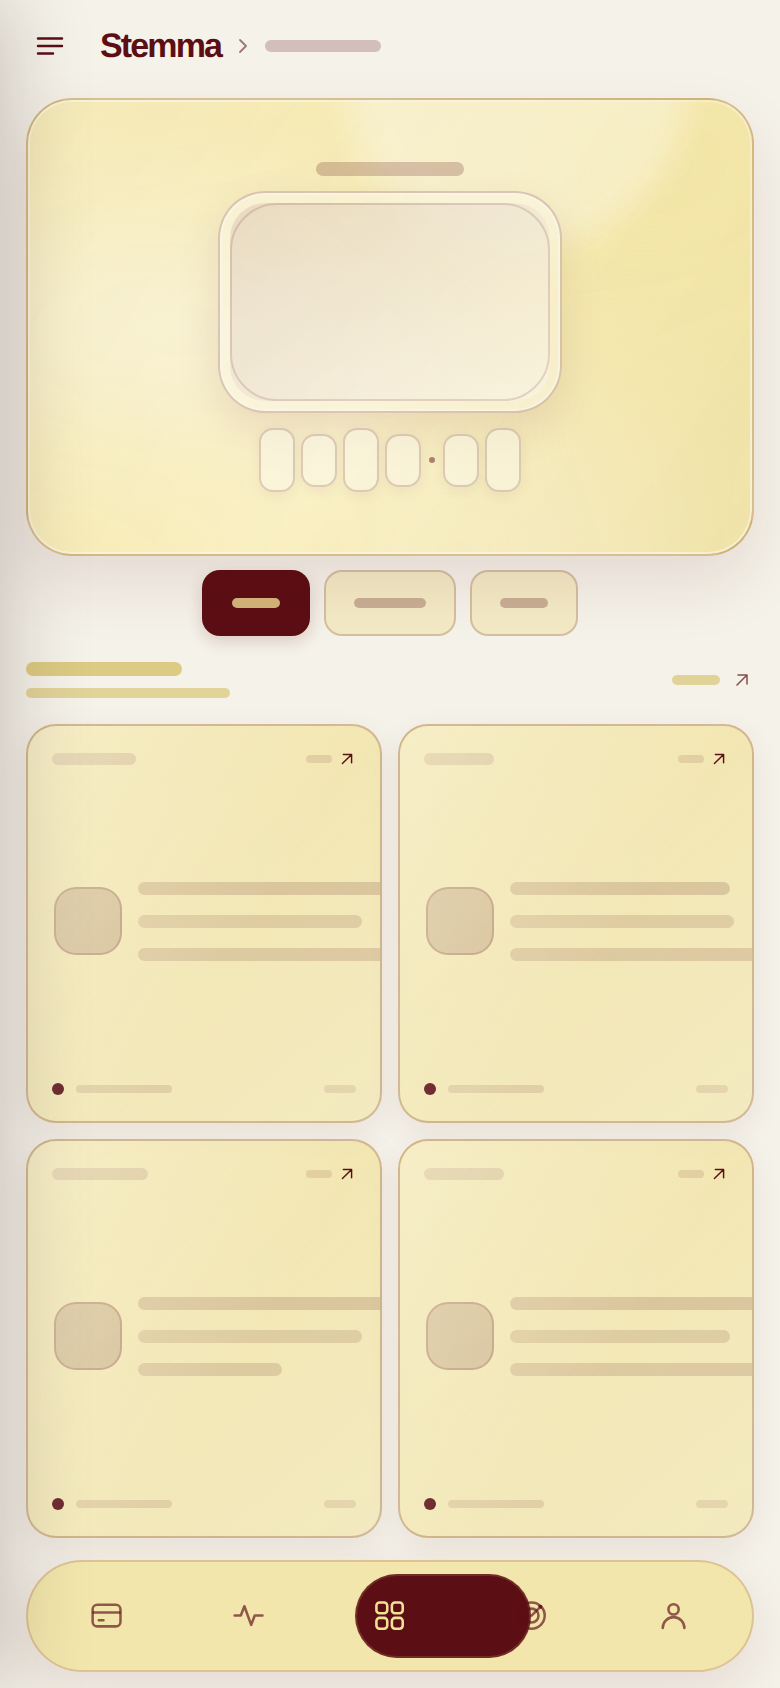
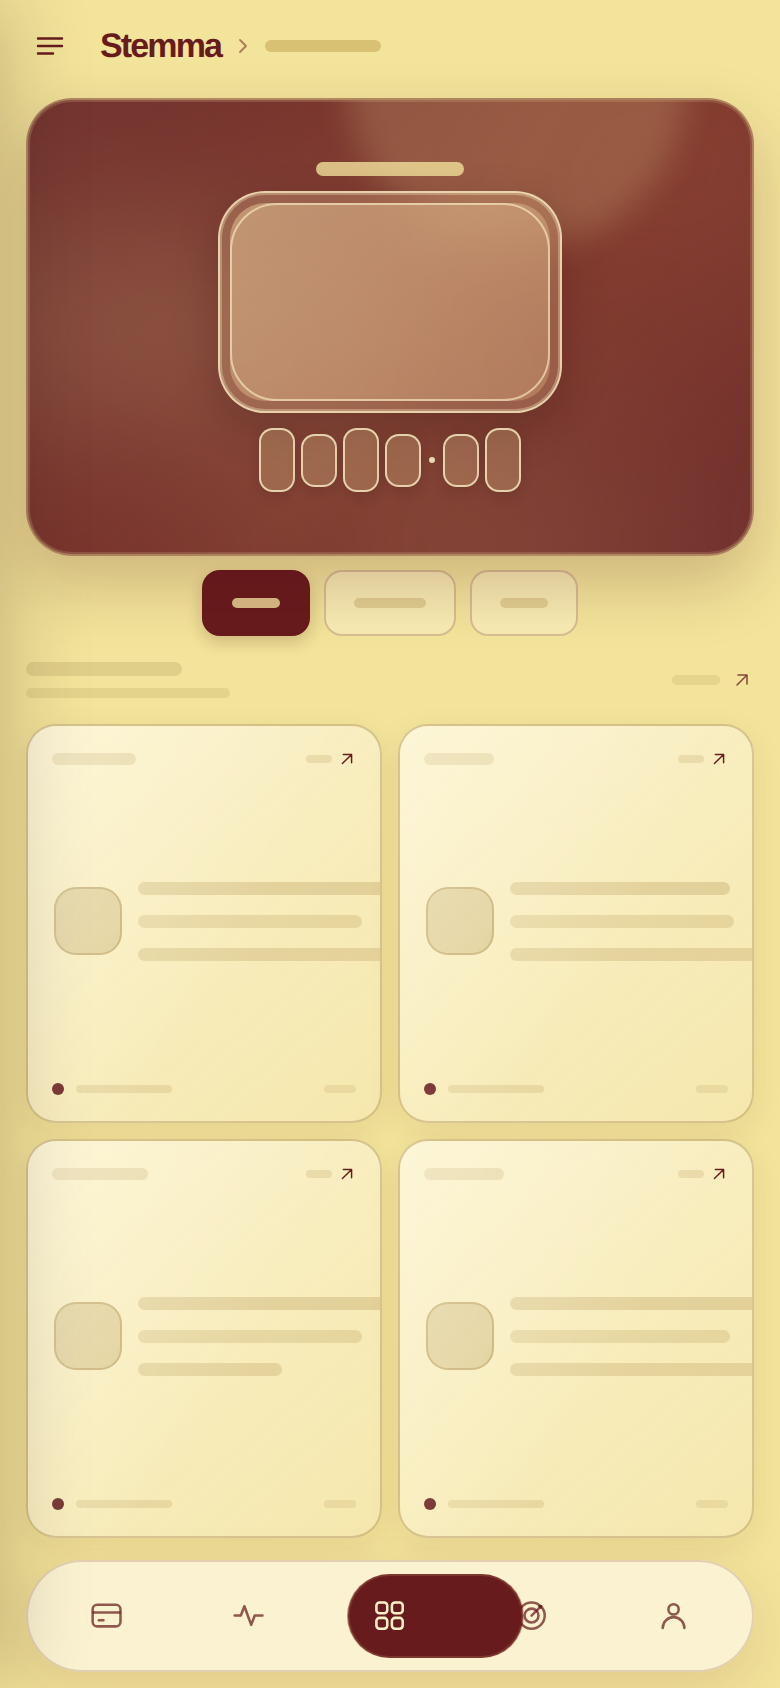
Polish Stemma mobile sidebar layout

diff --git a/styles.css b/styles.css
@@ -133,10 +133,10 @@ button { color: inherit; font: inherit; }
 .app-main.route-from-left { animation: route-from-left .28s ease both; }
 .drawer-backdrop { position: fixed; inset: 0; z-index: 29; background: rgba(47,55,49,.16); backdrop-filter: blur(3px); }
 .drawer-backdrop[hidden] { display: none; }
-.navigation-drawer { position: fixed; z-index: 30; inset: 0 auto 0 0; width: min(280px, calc(100% - 44px)); padding: 18px 16px; display: flex; flex-direction: column; background: rgba(246,247,243,.97); border-right: 1px solid rgba(255,255,255,.9); box-shadow: 15px 0 42px rgba(40,48,42,.1); transform: translateX(-105%); transition: transform .26s cubic-bezier(.2,.7,.2,1); }
+.navigation-drawer { position: fixed; z-index: 30; inset: 0 auto 0 0; width: min(280px, calc(100% - 44px)); padding: 16px 16px; display: flex; flex-direction: column; background: rgba(246,247,243,.97); border-right: 1px solid rgba(255,255,255,.9); box-shadow: 15px 0 42px rgba(40,48,42,.1); transform: translateX(-105%); transition: transform .26s cubic-bezier(.2,.7,.2,1); }
 .navigation-drawer.open { transform: translateX(0); }
-.drawer-top { display: flex; align-items: center; justify-content: space-between; padding: 1px 1px 27px; }
-.drawer-photo-skeleton { width: calc(100% + 4px); height: clamp(144px, 18vh, 168px); aspect-ratio: auto; flex: 0 0 auto; margin: 0 -2px 24px; border: 1px solid transparent; border-radius: 18px; }
+.drawer-top { display: flex; align-items: center; justify-content: space-between; padding: 1px 1px 9px; }
+.drawer-photo-skeleton { width: calc(100% + 4px); height: clamp(128px, 16vh, 148px); aspect-ratio: auto; flex: 0 0 auto; margin: 0 -2px 8px; border: 1px solid transparent; border-radius: 18px; }
 .drawer-mark-skeleton { width: 74px; height: 7px; border-radius: 99px; background: #daddd7; }
 .drawer-links { display: grid; gap: 7px; }
 .drawer-link { min-height: 44px; display: flex; align-items: center; gap: 13px; padding: 7px 10px; border: 1px solid transparent; border-radius: 14px; color: #8b968d; background: transparent; cursor: pointer; }
@@ -272,6 +272,8 @@ body { color: var(--brand-burgundy); }
 .navigation-drawer { background: rgba(91,20,22,.98); border-right-color: rgba(241,223,155,.34); box-shadow: 15px 0 42px rgba(35,5,8,.24); }
 .drawer-brand { color: var(--brand-gold-light); font-size: 19px; font-weight: 750; letter-spacing: -.055em; line-height: 1; }
 .drawer-photo-skeleton { border-color: rgba(241,223,155,.55); background: rgba(241,223,155,.18); box-shadow: 0 8px 20px rgba(35,5,8,.15), inset 0 0 0 1px rgba(251,241,200,.12); }
+.drawer-divider { position: relative; flex: 0 0 auto; height: 2px; margin: 0 2px 12px; border-radius: 999px; background: linear-gradient(90deg, rgba(241,223,155,.12), rgba(241,223,155,.62) 28%, rgba(241,223,155,.3) 76%, rgba(241,223,155,.08)); box-shadow: 0 1px 8px rgba(35,5,8,.12); }
+.drawer-divider::before { content: ""; position: absolute; inset: 0 auto 0 0; width: 30px; border-radius: inherit; background: linear-gradient(90deg, rgba(241,223,155,.98), rgba(241,223,155,.2)); }
 .drawer-top .icon-button { color: var(--brand-gold-light); }
 .drawer-top .icon-button:hover, .drawer-top .icon-button:focus-visible { background: rgba(241,223,155,.14); color: var(--brand-gold-light); }
 .drawer-link { color: rgba(251,241,200,.8); }

diff --git a/index.html b/index.html
@@ -70,6 +70,7 @@
       </button>
     </div>
     <div class="drawer-photo-skeleton skeleton-shimmer" aria-hidden="true"></div>
+    <div class="drawer-divider" role="separator" aria-orientation="horizontal"></div>
     <nav class="drawer-links" id="drawer-links" aria-label="Sections"></nav>
     <div class="drawer-foot" aria-hidden="true"><span class="drawer-avatar-skeleton"></span><span class="drawer-foot-line skeleton-shimmer"></span></div>
   </aside>

diff --git a/README.md b/README.md
@@ -12,6 +12,10 @@ Mobile:
 
 ![Stemma mobile preview](mobile-preview.png)
 
+Mobile sidebar:
+
+![Stemma mobile sidebar preview](mobile-sidebar-preview.png)
+
 ## Run locally
 
 From this directory, start a static web server:
